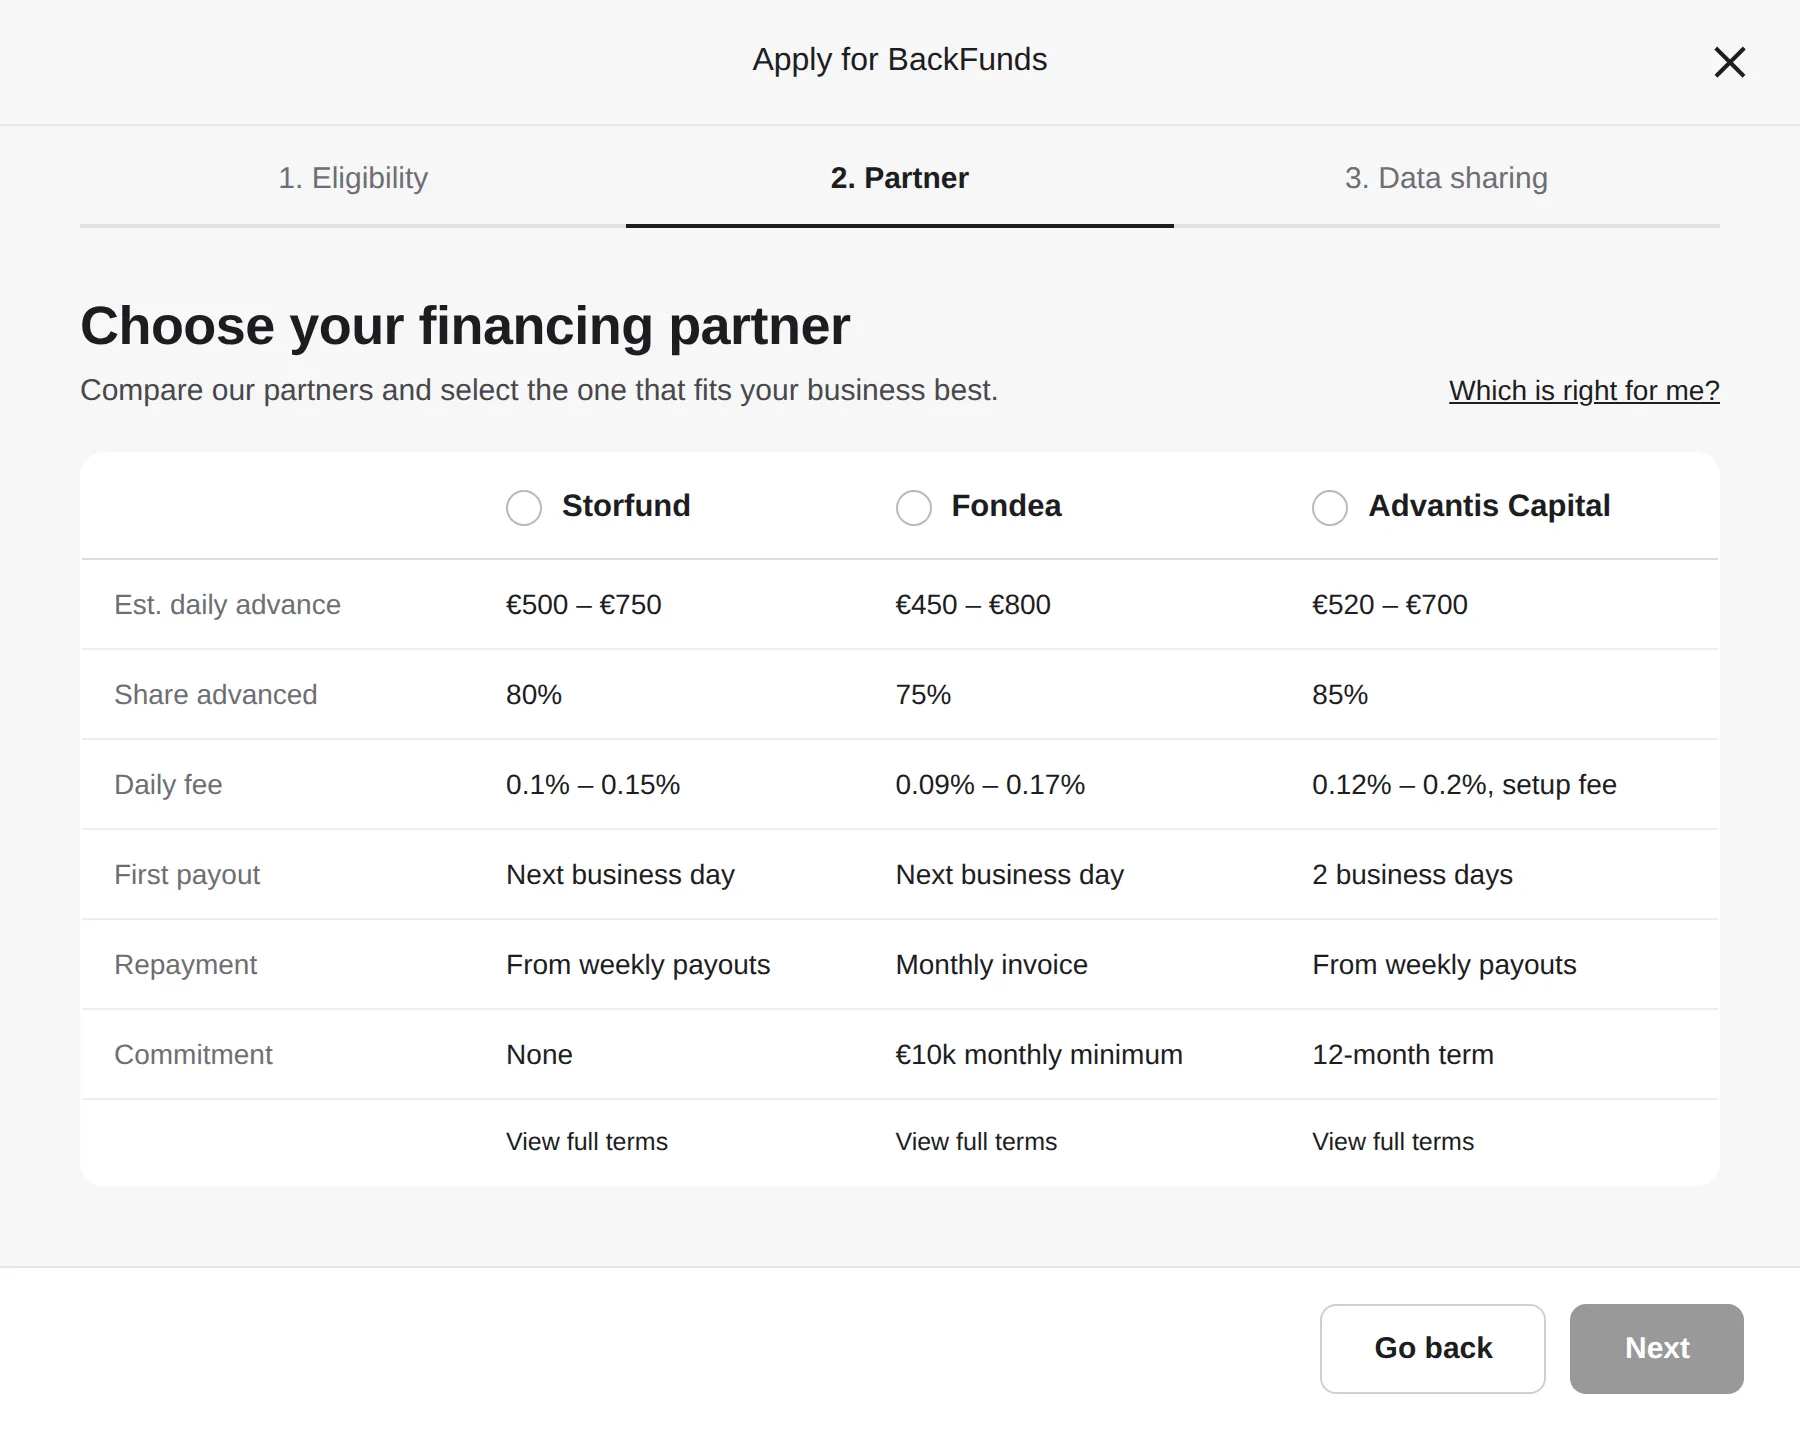
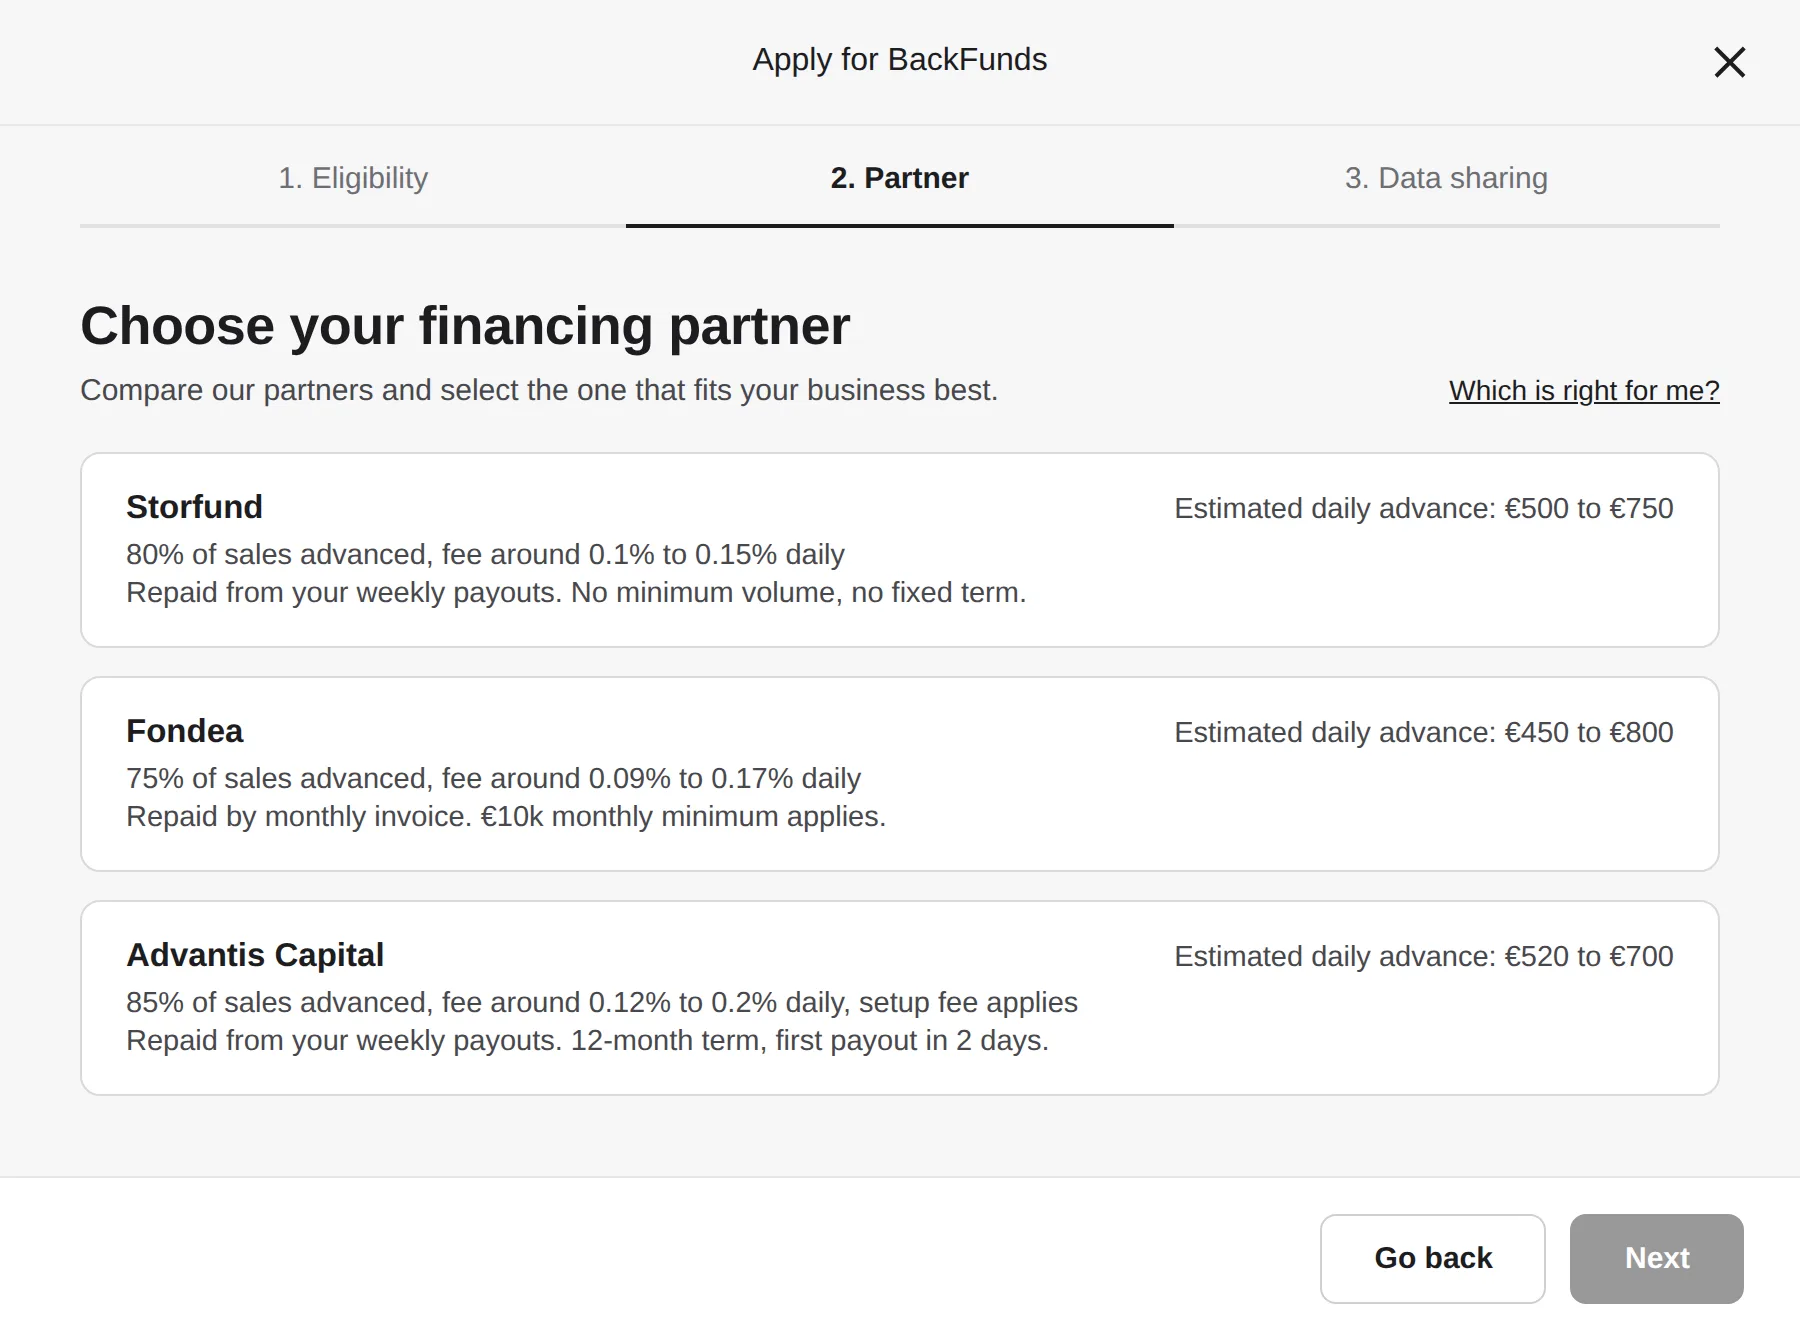
Backfunds: comparison mock rebuilt from existing product components
The radio-in-table-header selection isn't a component in the design
system. Rebuild the never-shipped partner step from pieces the product
actually has: three partner cards in the real card layout (name,
advance estimate, terms lines), selection by card highlight, drawer
chrome and footer as shipped. Caption updated to match.

Claude-Session: https://claude.ai/code/session_01EBHibMgKShPiyNhUhvo1Pc

diff --git a/src/data/projects.ts b/src/data/projects.ts
@@ -209,7 +209,7 @@ export const projects: Project[] = [
         type: 'media',
         label: 'Matched, not a marketplace',
         image: '/work/backfunds/partner-comparison.webp',
-        caption: 'The comparison table that never shipped: three providers, six trade-offs, and a “which is right for me?” link doing the work the eligibility engine already does.',
+        caption: 'The partner step that never shipped: three providers with conflicting terms, and a “which is right for me?” link doing the work the eligibility engine already does.',
       },
       {
         type: 'principle',